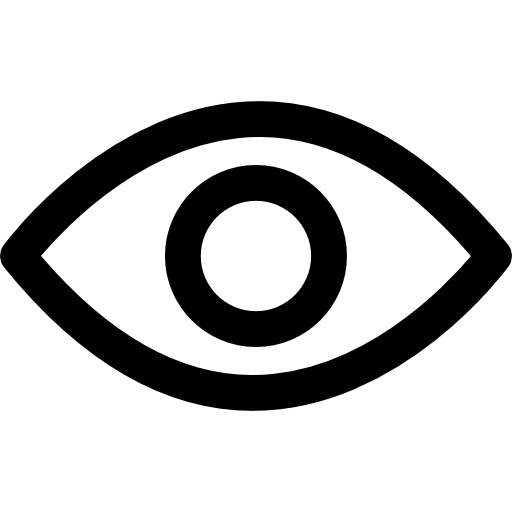
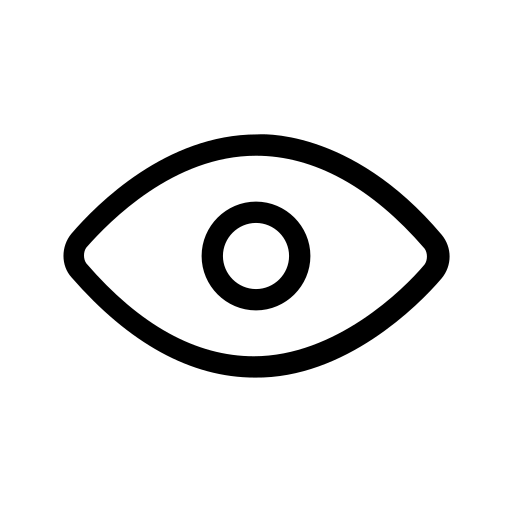
Atualizando os olhinhos do login e cadastro

diff --git a/public/js/login.js b/public/js/login.js
@@ -3,13 +3,13 @@ var status = 1;
 function senha(){
 	if(status > 0){
       document.getElementById('senha_input').type='password';
-      document.getElementById("olho_login").classList.remove("icon")
-      document.getElementById("olho_login").classList.add("icon_hide")
+      document.getElementById("olho_login").classList.remove("icon_hide")
+      document.getElementById("olho_login").classList.add("icon")
       status = 0;
     }else{
     document.getElementById('senha_input').type='text';
-    document.getElementById("olho_login").classList.remove("icon_hide")
-      document.getElementById("olho_login").classList.add("icon")
+    document.getElementById("olho_login").classList.remove("icon")
+      document.getElementById("olho_login").classList.add("icon_hide")
       status = 1;
     
     }
@@ -21,13 +21,13 @@ function senha_cadastro(){
 
 	if(status > 0){
       document.getElementById('senha_input_cadastro').type='password';
-      document.getElementById("olho").classList.remove("icon_senha")
-      document.getElementById("olho").classList.add("icon_senha_desativado")
+      document.getElementById("olho").classList.remove("icon_senha_desativado")
+      document.getElementById("olho").classList.add("icon_senha")
       status = 0;
     }else{
     document.getElementById('senha_input_cadastro').type='text';
-    document.getElementById("olho").classList.remove("icon_senha_desativado")
-    document.getElementById("olho").classList.add("icon_senha")
+    document.getElementById("olho").classList.remove("icon_senha")
+    document.getElementById("olho").classList.add("icon_senha_desativado")
       status = 1;
     
     }
@@ -40,13 +40,13 @@ function confirmar_senha_cadastro(){
 
 	if(status > 0){
       document.getElementById('conf_senha_input').type='password';
-      document.getElementById("olho_confirmar").classList.remove("icon_confirmar")
-      document.getElementById("olho_confirmar").classList.add("icon_confirmar_desativado")
+      document.getElementById("olho_confirmar").classList.remove("icon_confirmar_desativado")
+      document.getElementById("olho_confirmar").classList.add("icon_confirmar")
       status = 0;
     }else{
     document.getElementById('conf_senha_input').type='text';
-    document.getElementById("olho_confirmar").classList.remove("icon_confirmar_desativado")
-    document.getElementById("olho_confirmar").classList.add("icon_confirmar")
+    document.getElementById("olho_confirmar").classList.remove("icon_confirmar")
+    document.getElementById("olho_confirmar").classList.add("icon_confirmar_desativado")
       status = 1;
     
     }

diff --git a/public/css/login.css b/public/css/login.css
@@ -153,12 +153,13 @@ body {
 .icon{
     top: 50%;
     margin-left: 90%;
-    margin-top: -40px;
+    margin-top: -48px;
     transform: translate(-50%);
     background: url(../assets/img/Icone/olho\ ativado.png);
     background-size: cover;
-    width: 30px;
-    height: 30px;
+    color:#fff;
+    width: 42px;
+    height: 42px;
     cursor: pointer;
 }
 
@@ -168,6 +169,7 @@ body {
     margin-left: 90%;
     margin-top: -40px;
     transform: translate(-50%);
+    color: #F5F5F5;
     background-size: cover;
     width: 30px;
     height: 30px;
@@ -181,8 +183,10 @@ body {
     transform: translate(-50%);
     background: url(../assets/img/Icone/olho\ ativado.png);
     background-size: cover;
-    width: 30px;
-    height: 30px;
+    margin-top: -8px;
+    margin-left: 18px;
+    width: 42px;
+    height: 42px;
     cursor: pointer;
 }
 
@@ -204,11 +208,13 @@ body {
     position: absolute;
     right: 5px;
     top: 10px;
+    margin-top: -8px;
+    margin-left: 18px;
     transform: translate(-50%);
     background: url(../assets/img/Icone/olho\ ativado.png);
     background-size: cover;
-    width: 30px;
-    height: 30px;
+    width: 42px;
+    height: 42px;
     cursor: pointer;
 }
 

diff --git a/public/js/cadastro.js b/public/js/cadastro.js
@@ -101,7 +101,7 @@ function validar_codigo() {
     var span = document.getElementById('span_validar_codigo');
     var icon = document.getElementById('icon_codigo_input');
     
-    if (codigo.length  != ~5) {
+    if (codigo.length  != 5) {
         span.innerHTML = 'Códigos de intituição devem possuir pelo menos 5 caracteres.';
         span.classList.remove("valid");
         span.classList.add("not-valid");

diff --git a/public/login.html b/public/login.html
@@ -5,7 +5,7 @@
     <meta charset="UTF-8">
     <meta name="viewport" content="width=device-width, initial-scale=1.0">
 
-    <link rel="shortcut icon" href="assets/img/Logos/magisterLogo.svg" type="image/x-icon">
+        <link rel="shortcut icon" href="assets/img/Logos/magisterLogo.svg" type="image/x-icon">
     <title>Magister </title>
 
     <link rel="stylesheet" href="css/login.css">
